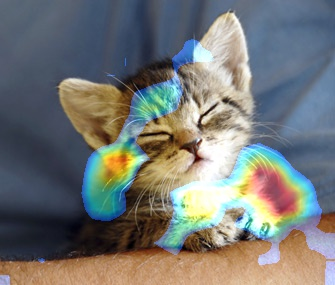
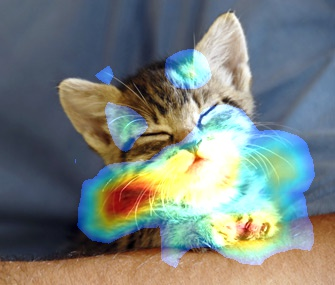
Modified layers of localisation model

diff --git a/heatmap/test.py b/heatmap/test.py
@@ -3,42 +3,27 @@ from keras.models import Sequential
 from keras.layers import Dense, Activation
 from keras.layers.core import Flatten, Dense, Dropout
 from keras.layers.convolutional import Convolution2D, MaxPooling2D, ZeroPadding2D
+from keras.layers.pooling import GlobalAveragePooling2D
 
-from keras.engine import Layer
-from keras import backend as K
+import cv2
 
-class Softmax4D(Layer):
-    def __init__(self, axis=-1,**kwargs):
-        self.axis=axis
-        super(Softmax4D, self).__init__(**kwargs)
+import matplotlib.pyplot as plt
+import numpy as np
 
-    def build(self,input_shape):
-        pass
-
-    def call(self, x,mask=None):
-        e = K.exp(x - K.max(x, axis=self.axis, keepdims=True))
-        s = K.sum(e, axis=self.axis, keepdims=True)
-        return e / s
-
-    def get_output_shape_for(self, input_shape):
-        return input_shape
 def VGG_19(weights_path=None,heatmap=False):
     model = Sequential()
 
-    if heatmap:
-        model.add(ZeroPadding2D((1,1),input_shape=(3,None,None)))
-    else:
-        model.add(ZeroPadding2D((1,1),input_shape=(3,224,224)))
+    model.add(ZeroPadding2D((1,1),input_shape=(3,224,224)))
     model.add(Convolution2D(64, 3, 3, activation='relu', name='conv1_1'))
     model.add(ZeroPadding2D((1,1)))
     model.add(Convolution2D(64, 3, 3, activation='relu', name='conv1_2'))
-    model.add(MaxPooling2D((2,2), strides=(2,2)))
+    #model.add(MaxPooling2D((2,2), strides=(2,2)))
 
     model.add(ZeroPadding2D((1,1)))
     model.add(Convolution2D(128, 3, 3, activation='relu', name='conv2_1'))
     model.add(ZeroPadding2D((1,1)))
     model.add(Convolution2D(128, 3, 3, activation='relu', name='conv2_2'))
-    model.add(MaxPooling2D((2,2), strides=(2,2)))
+    #model.add(MaxPooling2D((2,2), strides=(2,2)))
 
     model.add(ZeroPadding2D((1,1)))
     model.add(Convolution2D(256, 3, 3, activation='relu', name='conv3_1'))
@@ -48,7 +33,7 @@ def VGG_19(weights_path=None,heatmap=False):
     model.add(Convolution2D(256, 3, 3, activation='relu', name='conv3_3'))
     model.add(ZeroPadding2D((1,1)))
     model.add(Convolution2D(256, 3, 3, activation='relu', name='conv3_4'))
-    model.add(MaxPooling2D((2,2), strides=(2,2)))
+    #model.add(MaxPooling2D((2,2), strides=(2,2)))
 
     model.add(ZeroPadding2D((1,1)))
     model.add(Convolution2D(512, 3, 3, activation='relu', name='conv4_1'))
@@ -58,7 +43,7 @@ def VGG_19(weights_path=None,heatmap=False):
     model.add(Convolution2D(512, 3, 3, activation='relu', name='conv4_3'))
     model.add(ZeroPadding2D((1,1)))
     model.add(Convolution2D(512, 3, 3, activation='relu', name='conv4_4'))
-    model.add(MaxPooling2D((2,2), strides=(2,2)))
+    #model.add(MaxPooling2D((2,2), strides=(2,2)))
 
     model.add(ZeroPadding2D((1,1)))
     model.add(Convolution2D(512, 3, 3, activation='relu', name='conv5_1'))
@@ -68,21 +53,10 @@ def VGG_19(weights_path=None,heatmap=False):
     model.add(Convolution2D(512, 3, 3, activation='relu', name='conv5_3'))
     model.add(ZeroPadding2D((1,1)))
     model.add(Convolution2D(512, 3, 3, activation='relu', name='conv5_4'))
-    model.add(MaxPooling2D((2,2), strides=(2,2)))
+    # model.add(MaxPooling2D((2,2), strides=(2,2)))
 
-    if heatmap:
-        model.add(Convolution2D(4096,7,7,activation="relu",name="fc17"))
-        model.add(Convolution2D(4096,1,1,activation="relu",name="fc18"))
-        model.add(Convolution2D(1000,1,1,name="dense_3"))
-        model.add(Softmax4D(axis=1,name="softmax"))
-    else:
-        model.add(Flatten())
-        model.add(Dense(4096, activation='relu', name='fc17'))
-        model.add(Dropout(0.5))
-        model.add(Dense(4096, activation='relu', name='fc18'))
-        model.add(Dropout(0.5))
-        model.add(Dense(1000, name='dense_3'))
-        model.add(Activation("softmax"))
+    model.add(ZeroPadding2D((1,1)))
+    model.add(Convolution2D(1024, 3, 3, activation='relu',name='conv6_1'))
 
     if weights_path:
         model.load_weights(weights_path,by_name=True)
@@ -100,9 +74,24 @@ if __name__ == "__main__":
     # im = preprocess_image_batch(['examples/dog.jpg'], color_mode="rgb")
 
     # Test pretrained model
+
+    im = cv2.resize(cv2.imread('tazeek-punch.jpg'), (224, 224)).astype(np.float32)
+    im[:,:,0] -= 103.939
+    im[:,:,1] -= 116.779
+    im[:,:,2] -= 123.68
+    im = im.transpose((2,0,1))
+    im = np.expand_dims(im, axis=0)
+
     sgd = SGD(lr=0.1, decay=1e-6, momentum=0.9, nesterov=True)
-    model = VGG_19(weights_path='../binary_cnn_10_named_weights.h5', heatmap=True)
+    model = VGG_19(weights_path='../binary_cnn_10_named_weights.h5')
     model.compile(optimizer=sgd, loss='mse')
 
     out = model.predict(im)
-    heatmap = out[0,ids,:,:].sum(axis=0)
+    heatmap = out[0,:,:].sum(axis=0)
+
+    im = plt.imread('tazeek-punch.jpg')
+    implot = plt.imshow(im)
+
+
+    plt.imshow(heatmap, cmap='hot', interpolation='bilinear',alpha=0.7,aspect='auto',extent=[0,im.shape[1],im.shape[0],0])
+    plt.show()

diff --git a/localisation/main.py b/localisation/main.py
@@ -6,11 +6,21 @@ from keras.models import Model
 from keras import backend as K
 from keras.layers.convolutional import Convolution2D, MaxPooling2D, ZeroPadding2D
 from keras.layers.pooling import GlobalAveragePooling2D
+from keras.utils.np_utils import to_categorical
+from keras.callbacks import CSVLogger
 
 import cv2
 
-import matplotlib.pyplot as plt
+from scipy import ndimage, misc
+import cv2
 import numpy as np
+import os
+import pickle
+import pandas as pd
+from pandas import HDFStore, DataFrame
+
+import h5py
+import matplotlib.pyplot as plt
 
 def VGG_19_GAP_functional(weights_path=None,heatmap=False):
 
@@ -61,27 +71,21 @@ def VGG_19_GAP_functional(weights_path=None,heatmap=False):
 
     x = GlobalAveragePooling2D()(final_conv)
 
-    main_output = Dense(2, activation = 'softmax', init='uniform', name="main_output")(x)
+    main_output = Dense(2, activation = 'softmax', name="main_output")(x)
     aux_output = final_conv
 
-    model = Model(input=inputs, output=[main_output,aux_output])
+
+    if heatmap:
+        model = Model(input=inputs, output=[main_output,aux_output])
+    else:
+        model = Model(input=inputs, output=main_output)#[main_output,aux_output])
 
     if weights_path:
         model.load_weights(weights_path,by_name=True)
 
     return model
-    
+
 if __name__ == "__main__":
-    # ### Here is a script to compute the heatmap of the dog synsets.
-    # ## We find the synsets corresponding to dogs on ImageNet website
-    # s = "n02084071"
-    # ids = synset_to_dfs_ids(s)
-    # # Most of the synsets are not in the subset of the synsets used in ImageNet recognition task.
-    # ids = np.array([id_ for id_ in ids if id_ is not None])
-
-    # im = preprocess_image_batch(['examples/dog.jpg'], color_mode="rgb")
-
-    # Test pretrained model
 
     original_img = cv2.imread('kitten.jpg').astype(np.float32)
 
@@ -94,18 +98,48 @@ if __name__ == "__main__":
     im = im.transpose((2,0,1))
     im = np.expand_dims(im, axis=0)
 
-    sgd = SGD(lr=0.1, decay=1e-6, momentum=0.9, nesterov=True)
+    sgd = SGD(lr=0.001, decay=5e-4, momentum=0.9, nesterov=True)
     model = VGG_19_GAP_functional(weights_path='../binary_cnn_10_named_weights.h5')
 
+    # model.compile(optimizer=sgd, loss='mse')
 
 
-    model.compile(optimizer=sgd, loss='mse')
+    delta = 0.0
+    store = HDFStore('../dataset_h5/labels.h5')
+    # delta = 1
+    ava_table = store['labels_train']
+
+    ava_table = ava_table[( abs(ava_table.score - 5) >= delta)]
+    # X_train = np.hstack(X).reshape(10000,224,224,3)
+    # X = pickle.load( open("images_224.p", "rb"))
+    h5f = h5py.File('../dataset_h5/images_224_delta_{0}.h5'.format(delta),'r')
+    X_train = h5f['data_train']
+    #X_train = np.hstack(X).reshape(3,224,224,16160).T
+
+    #X_train = X_train.astype('float32')
+
+    Y_train = ava_table.ix[:, "good"].as_matrix()
+    Y_train = to_categorical(Y_train, 2)
+
+    X_test = h5f['data_test']
+    ava_test = store['labels_test']
+    Y_test = ava_test.ix[:, "good"].as_matrix()
+    Y_test = to_categorical(Y_test, 2)
+
+
+    model.compile(optimizer=sgd,loss='categorical_crossentropy')
+
+    csv_logger = CSVLogger('training_gap_binary.log')
+
+    model.fit(X_train,Y_train,
+        nb_epoch=20, batch_size=32, shuffle="batch", validation_data=(X_test, Y_test), callbacks=[csv_logger])
+
+
+
 
     out = model.predict(im)
 
-    print(out.shape)
-
-    output_path = "output.jpg"
+    output_path = "output_1.jpg"
 
 
     #Get the 512 input weights to the softmax.
@@ -119,7 +153,9 @@ if __name__ == "__main__":
 
     #Create the class activation map.
     cam = np.zeros(dtype = np.float32, shape = out[1].shape[1:3])
-    for i, w in enumerate(class_weights[:, 1]):
+
+    class_to_visualize = 1 # 0 for bad, 1 for good
+    for i, w in enumerate(class_weights[:, class_to_visualize]):
             cam += w * out[1][i, :, :]
     print("predictions", out[0])
     cam /= np.max(cam)

diff --git a/vgg19_binary.py b/vgg19_binary.py
@@ -1,0 +1,59 @@
+from keras.models import Sequential, load_model
+from keras.layers import Dense, Activation
+from keras.layers.core import Flatten, Dense, Dropout
+from keras.layers.convolutional import Convolution2D, MaxPooling2D, ZeroPadding2D
+def VGG_19(weights_path=None):
+    model = Sequential()
+    model.add(ZeroPadding2D((1,1),input_shape=(3,224,224)))
+    model.add(Convolution2D(64, 3, 3, activation='relu',name='conv1_1'))
+    model.add(ZeroPadding2D((1,1)))
+    model.add(Convolution2D(64, 3, 3, activation='relu',name='conv1_2'))
+    model.add(MaxPooling2D((2,2), strides=(2,2)))
+
+    model.add(ZeroPadding2D((1,1)))
+    model.add(Convolution2D(128, 3, 3, activation='relu',name='conv2_1'))
+    model.add(ZeroPadding2D((1,1)))
+    model.add(Convolution2D(128, 3, 3, activation='relu',name='conv2_2'))
+    model.add(MaxPooling2D((2,2), strides=(2,2)))
+
+    model.add(ZeroPadding2D((1,1)))
+    model.add(Convolution2D(256, 3, 3, activation='relu',name='conv3_1'))
+    model.add(ZeroPadding2D((1,1)))
+    model.add(Convolution2D(256, 3, 3, activation='relu',name='conv3_2'))
+    model.add(ZeroPadding2D((1,1)))
+    model.add(Convolution2D(256, 3, 3, activation='relu',name='conv3_3'))
+    model.add(ZeroPadding2D((1,1)))
+    model.add(Convolution2D(256, 3, 3, activation='relu',name='conv3_4'))
+    model.add(MaxPooling2D((2,2), strides=(2,2)))
+
+    model.add(ZeroPadding2D((1,1)))
+    model.add(Convolution2D(512, 3, 3, activation='relu',name='conv4_1'))
+    model.add(ZeroPadding2D((1,1)))
+    model.add(Convolution2D(512, 3, 3, activation='relu',name='conv4_2'))
+    model.add(ZeroPadding2D((1,1)))
+    model.add(Convolution2D(512, 3, 3, activation='relu',name='conv4_3'))
+    model.add(ZeroPadding2D((1,1)))
+    model.add(Convolution2D(512, 3, 3, activation='relu',name='conv4_4'))
+    model.add(MaxPooling2D((2,2), strides=(2,2)))
+
+    model.add(ZeroPadding2D((1,1)))
+    model.add(Convolution2D(512, 3, 3, activation='relu',name='conv5_1'))
+    model.add(ZeroPadding2D((1,1)))
+    model.add(Convolution2D(512, 3, 3, activation='relu',name='conv5_2'))
+    model.add(ZeroPadding2D((1,1)))
+    model.add(Convolution2D(512, 3, 3, activation='relu',name='conv5_3'))
+    model.add(ZeroPadding2D((1,1)))
+    model.add(Convolution2D(512, 3, 3, activation='relu',name='conv5_4'))
+    model.add(MaxPooling2D((2,2), strides=(2,2)))
+
+    model.add(Flatten())
+    model.add(Dense(4096, activation='relu',name='fc17'))
+    model.add(Dropout(0.5))
+    model.add(Dense(4096, activation='relu',name='fc18'))
+    model.add(Dropout(0.5))
+    model.add(Dense(2, activation='softmax'))
+
+    if weights_path:
+        model.load_weights(weights_path)
+
+    return model

diff --git a/squeezenet/main.py b/squeezenet/main.py
@@ -3,14 +3,49 @@ import copy
 import numpy as np
 from squeezenet import get_squeezenet
 import time
+from pandas import HDFStore, DataFrame
+import pandas as pd
+import h5py
+
+from keras.utils.np_utils import to_categorical
+from keras.optimizers import SGD
+
+from keras.callbacks import CSVLogger
 
 
 if __name__ == '__main__':
+    delta = 0.0
+    store = HDFStore('../dataset_h5/labels.h5')
+    # delta = 1
+    ava_table = store['labels_train']
+
+    ava_table = ava_table[( abs(ava_table.score - 5) >= delta)]
+    # X_train = np.hstack(X).reshape(10000,224,224,3)
+    # X = pickle.load( open("images_224.p", "rb"))
+    h5f = h5py.File('../dataset_h5/images_224_delta_{0}.h5'.format(delta),'r')
+    X_train = h5f['data_train']
+    #X_train = np.hstack(X).reshape(3,224,224,16160).T
+
+    #X_train = X_train.astype('float32')
+
+    Y_train = ava_table.ix[:, "good"].as_matrix()
+    Y_train = to_categorical(Y_train, 2)
+
+    X_test = h5f['data_test']
+    ava_test = store['labels_test']
+    Y_test = ava_test.ix[:, "good"].as_matrix()
+    Y_test = to_categorical(Y_test, 2)
+
+
+
+    sgd = SGD(lr=0.001, decay=5e-4, momentum=0.9, nesterov=True)
 
     model = get_squeezenet(2, dim_ordering='tf')
-    model.compile(loss="categorical_crossentropy", optimizer="adam")
-    model.load_weights('model/squeezenet_weights_tf_dim_ordering_tf_kernels.h5', by_name=True)
+    model.compile(loss="categorical_crossentropy", optimizer=sgd, metrics=['accuracy'])
 
+    csv_logger = CSVLogger('training_squeezenet_lr_0.001.log')
+    model.fit(X_train, Y_train, nb_epoch=10,shuffle="batch",batch_size=16,validation_data=(X_test, Y_test), callbacks=[csv_logger])
+    # model.load_weights('model/squeezenet_weights_tf_dim_ordering_tf_kernels.h5', by_name=True)
 
     start = time.time()
     im = misc.imread('asian_dad.jpg')

diff --git a/squeezenet/squeezenet.py b/squeezenet/squeezenet.py
@@ -37,7 +37,7 @@ def get_squeezenet(nb_classes, dim_ordering='tf'):
     if dim_ordering is 'th':
         input_img = Input(shape=(3, 224, 224))
     elif dim_ordering is 'tf':
-        input_img = Input(shape=(224, 224, 3))
+        input_img = Input(shape=(3, 224, 224))
     else:
         raise NotImplementedError("Theano and Tensorflow are only available")
     x = Convolution2D(64, 3, 3, subsample=(2, 2), border_mode='valid', name='conv1')(input_img)
